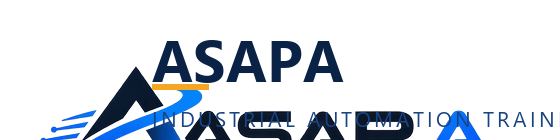
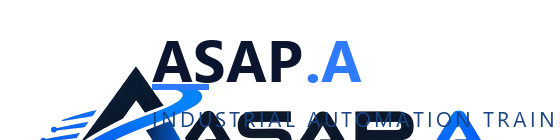
Rebrand to ASAP.A: navy/blue design system (design-tokens), ASAP.A lockup + UI re-skin

Changed region(s): [[0.5161, 0.2857, 0.6679, 0.6], [0.2732, 0.6, 0.3946, 0.6571]]

diff --git a/frontend/css/styles.css b/frontend/css/styles.css
@@ -1,18 +1,20 @@
 :root {
-  --bg: #0a1120;
-  --bg-2: #0f1830;
-  --panel: #14203a;
-  --panel-2: #1a2a4a;
-  --border: #233352;
-  --text: #e8ecf5;
-  --muted: #93a0bd;
-  --accent: #2f9cf0;
-  --accent-2: #2275c7;
-  --danger: #ff5c5c;
-  --warn: #ffc24b;
-  --good: #4be38a;
+  --bg: #08111f;
+  --bg-2: #0a1628;
+  --panel: #0f1e36;
+  --panel-2: #122542;
+  --border: #1f3556;
+  --text: #ffffff;
+  --muted: #9db2ce;
+  --locked: #6b7f99;
+  --accent: #1e88ff;
+  --accent-2: #3b9bff;
+  --cyan: #2fc4ff;
+  --danger: #ef4444;
+  --warn: #f59e0b;
+  --good: #22c55e;
   --radius: 12px;
-  --font: "Segoe UI", system-ui, -apple-system, sans-serif;
+  --font: "Inter", "Segoe UI", system-ui, -apple-system, sans-serif;
 }
 
 * { box-sizing: border-box; margin: 0; padding: 0; }
@@ -42,8 +44,8 @@ h3 { font-size: 15px; font-weight: 600; margin: 14px 0 8px; }
   transition: filter .15s, transform .05s;
 }
 .btn:active { transform: translateY(1px); }
-.btn-primary { background: var(--accent); color: #06162b; }
-.btn-primary:hover { filter: brightness(1.1); }
+.btn-primary { background: var(--accent); color: #fff; box-shadow: 0 0 14px rgba(30,136,255,.35); }
+.btn-primary:hover { background: var(--accent-2); filter: brightness(1.05); }
 .btn-ghost { background: transparent; color: var(--muted); border: 1px solid var(--border); }
 .btn-ghost:hover { color: var(--text); border-color: var(--muted); }
 .btn-block { width: 100%; margin-top: 8px; }
@@ -61,7 +63,7 @@ label { display: block; color: var(--muted); font-size: 13px; margin-top: 12px; 
 /* Auth */
 .auth-screen {
   min-height: 100vh; display: flex; align-items: center; justify-content: center;
-  background: radial-gradient(1000px 500px at 30% -10%, #12335c 0%, var(--bg) 60%);
+  background: radial-gradient(1000px 500px at 30% -10%, #0b3a86 0%, var(--bg) 60%);
 }
 .auth-card {
   width: 400px; background: var(--panel); border: 1px solid var(--border);
@@ -72,6 +74,7 @@ label { display: block; color: var(--muted); font-size: 13px; margin-top: 12px; 
   width: 44px; height: 44px; border-radius: 10px; object-fit: contain;
 }
 .brand-name { font-weight: 700; font-size: 17px; }
+.brand-name .brand-dot { color: var(--accent); }
 .brand-sub { font-size: 12px; color: var(--muted); }
 .tabs-mini { display: flex; gap: 6px; background: var(--bg-2); border-radius: 8px; padding: 4px; margin: 16px 0; }
 .tab-mini { flex: 1; background: none; border: none; color: var(--muted); padding: 8px; border-radius: 6px; cursor: pointer; font-weight: 600; }
@@ -91,7 +94,7 @@ label { display: block; color: var(--muted); font-size: 13px; margin-top: 12px; 
   cursor: pointer; font-weight: 600;
 }
 .nav-item:hover { color: var(--text); background: var(--panel); }
-.nav-item.active { background: var(--panel); color: var(--accent); }
+.nav-item.active { background: var(--accent); color: #fff; }
 .sidebar-footer { margin-top: auto; }
 .user-chip { font-size: 13px; color: var(--text); background: var(--panel); border-radius: 8px; padding: 10px 12px; }
 .user-chip .email { color: var(--muted); font-size: 12px; }
@@ -169,14 +172,14 @@ label { display: block; color: var(--muted); font-size: 13px; margin-top: 12px; 
 .panel-item .sub { color: var(--muted); font-size: 13px; margin-top: 2px; }
 
 /* Mentor chat */
-.mentor-ai-chip { font-size: 11px; font-weight: 600; color: var(--accent, #2f9cf0); background: rgba(47,156,240,0.08); border: 1px solid rgba(47,156,240,0.25); padding: 3px 10px; border-radius: 999px; vertical-align: middle; }
+.mentor-ai-chip { font-size: 11px; font-weight: 600; color: var(--accent, #1e88ff); background: rgba(30,136,255,0.08); border: 1px solid rgba(30,136,255,0.25); padding: 3px 10px; border-radius: 999px; vertical-align: middle; }
 .mentor-layout { display: grid; grid-template-columns: 1fr 300px; gap: 18px; margin-top: 14px; }
 .chat-window {
   height: 520px; overflow-y: auto; background: var(--panel); border: 1px solid var(--border);
   border-radius: var(--radius); padding: 16px; display: flex; flex-direction: column; gap: 10px;
 }
 .msg { max-width: 85%; padding: 10px 14px; border-radius: 12px; font-size: 14px; white-space: pre-wrap; }
-.msg.user { align-self: flex-end; background: #10396b; color: #dceeff; border: 1px solid #1c5494; }
+.msg.user { align-self: flex-end; background: var(--accent); color: #fff; border: 1px solid var(--accent-2); }
 .msg.mentor { align-self: flex-start; background: var(--bg-2); border: 1px solid var(--border); }
 .msg .tag { display: block; font-size: 10px; letter-spacing: .06em; color: var(--accent); margin-bottom: 4px; font-weight: 700; }
 .msg.safety { border-color: var(--danger); }
@@ -185,7 +188,7 @@ label { display: block; color: var(--muted); font-size: 13px; margin-top: 12px; 
 .msg.socratic .tag { color: var(--accent); }
 .level-picker { display: flex; gap: 6px; margin: 6px 0 4px; }
 .level-picker button { flex: 1; background: var(--bg-2); border: 1px solid var(--border); color: var(--muted); border-radius: 6px; padding: 6px 0; cursor: pointer; font-weight: 700; }
-.level-picker button.active { background: var(--accent); color: #06162b; border-color: var(--accent); }
+.level-picker button.active { background: var(--accent); color: #fff; border-color: var(--accent); }
 .chat-input-row { display: flex; gap: 8px; }
 .chat-input-row input { flex: 1; }
 

diff --git a/frontend/index.html b/frontend/index.html
@@ -3,7 +3,7 @@
 <head>
   <meta charset="UTF-8" />
   <meta name="viewport" content="width=device-width, initial-scale=1.0" />
-  <title>ASAPA — Industrial Automation Training Platform</title>
+  <title>ASAP.A — Industrial Automation Training Platform</title>
   <link rel="icon" type="image/x-icon" href="favicon.ico" />
   <link rel="stylesheet" href="css/styles.css" />
 </head>
@@ -12,9 +12,9 @@
   <div id="auth-screen" class="auth-screen hidden">
     <div class="auth-card">
       <div class="brand">
-        <img class="brand-mark" src="logo.png" alt="ASAPA" />
+        <img class="brand-mark" src="logo.png" alt="ASAP.A" />
         <div>
-          <div class="brand-name">ASAPA</div>
+          <div class="brand-name">ASAP<span class="brand-dot">.A</span></div>
           <div class="brand-sub">Industrial Automation Training Platform</div>
         </div>
       </div>
@@ -49,9 +49,9 @@
   <div id="app" class="app hidden">
     <aside class="sidebar">
       <div class="brand">
-        <img class="brand-mark" src="logo.png" alt="ASAPA" />
+        <img class="brand-mark" src="logo.png" alt="ASAP.A" />
         <div>
-          <div class="brand-name">ASAPA</div>
+          <div class="brand-name">ASAP<span class="brand-dot">.A</span></div>
           <div class="brand-sub">AI-Powered · Offline-First</div>
         </div>
       </div>

diff --git a/frontend/sw.js b/frontend/sw.js
@@ -1,7 +1,7 @@
-// ASAPA — Industrial Automation Training Platform — service worker
+// ASAP.A — Industrial Automation Training Platform — service worker
 // Caches the app shell so the UI loads with no network. API calls are never cached;
 // content for offline study comes from IndexedDB bundles instead.
-const CACHE = "academy-shell-v8";
+const CACHE = "academy-shell-v9";
 const SHELL = [
   "/",
   "/index.html",

diff --git a/frontend/js/offline.js b/frontend/js/offline.js
@@ -1,4 +1,4 @@
-// ASAPA — offline engine
+// ASAP.A — offline engine
 // IndexedDB bundle store + queued local changes + offline mentor + sync flush.
 (function (global) {
   "use strict";

diff --git a/frontend/js/app.js b/frontend/js/app.js
@@ -1,4 +1,4 @@
-// ASAPA — front-end client
+// ASAP.A — front-end client
 const API = "/api";
 
 const state = {

diff --git a/packaging/desktop/assets/make_icon.py b/packaging/desktop/assets/make_icon.py
@@ -6,7 +6,7 @@ gear to an IC chip. Emits:
 
     assets/app.ico                 multi-size Windows icon (16..256)
     assets/asapa_logo.png          512px square mark
-    assets/asapa_lockup.png        mark + "ASAPA" wordmark (docs / marketing)
+    assets/asapa_lockup.png        mark + "ASAP.A" wordmark (docs / marketing)
     frontend/logo.png              128px mark (UI brand block)
     frontend/favicon.ico           browser tab icon
 """
@@ -28,8 +28,9 @@ S = 512
 C = S // 2
 
 BLUE = (25, 68, 130, 255)      # deep industrial blue
-DARK = (10, 34, 70, 255)       # near-navy (glyph / wordmark)
-AMBER = (245, 166, 35, 255)    # signal amber
+DARK = (11, 21, 48, 255)       # brand navy (#0B1530 — glyph / wordmark)
+AMBER = (245, 166, 35, 255)    # signal amber (legacy monogram hub)
+ACCENT = (47, 123, 255, 255)   # ASAP.A blue (#2F7BFF — ".A", swoosh, bar)
 LIGHT = (146, 190, 240, 255)   # light blue circuit track
 CLEAR = (0, 0, 0, 0)
 
@@ -141,10 +142,11 @@ def make_lockup(mark: Image.Image | None = None) -> Image.Image:
     d = ImageDraw.Draw(img)
 
     word = _font(58, bold=True)
-    d.text((152, 58), "ASAPA", font=word, fill=DARK, anchor="lm")
+    d.text((152, 58), "ASAP", font=word, fill=DARK, anchor="lm")
+    d.text((152 + word.getlength("ASAP") + 2, 58), ".A", font=word, fill=ACCENT, anchor="lm")
 
     bar_y = 84
-    d.rectangle([152, bar_y, 208, bar_y + 5], fill=AMBER)
+    d.rectangle([152, bar_y, 208, bar_y + 5], fill=ACCENT)
 
     tagline = "INDUSTRIAL AUTOMATION TRAINING PLATFORM"
     f = _font(21, bold=False)

diff --git a/packaging/desktop/launcher.py b/packaging/desktop/launcher.py
@@ -1,4 +1,4 @@
-"""ASAPA - Industrial Automation Training Platform (Windows desktop launcher).
+"""ASAP.A - Industrial Automation Training Platform (Windows desktop launcher).
 
 Entry point for the PyInstaller bundle (see build-desktop.ps1). Starts the
 FastAPI server on loopback, serves the bundled frontend, and hosts the UI in a
@@ -64,7 +64,7 @@ def info(message: str) -> None:
 
 
 CONFIG_TEMPLATE = """\
-# ASAPA desktop AI mentor settings.
+# ASAP.A desktop AI mentor settings.
 # This app keeps working fully offline with the built-in Socratic engine.
 # To enable the live LLM mentor over the internet, fill in a provider + key:
 #   AI_PROVIDER=openrouter            # openai | openrouter | anthropic | gemini | ollama
@@ -232,7 +232,7 @@ def _main() -> int:
     import webview
 
     webview.create_window(
-        "ASAPA - Industrial Automation Training Platform",
+        "ASAP.A - Industrial Automation Training Platform",
         url,
         width=1280,
         height=840,

diff --git a/backend/app/mentor/engine.py b/backend/app/mentor/engine.py
@@ -348,7 +348,7 @@ class AIMentorEngine:
         )
 
 
-SYSTEM_PROMPT = """You are the AI mentor inside ASAPA, an industrial automation training platform (PLC, sensors, PID, P&ID, HMI/SCADA, safety, commissioning, fault-finding, mining & minerals).
+SYSTEM_PROMPT = """You are the AI mentor inside ASAP.A, an industrial automation training platform (PLC, sensors, PID, P&ID, HMI/SCADA, safety, commissioning, fault-finding, mining & minerals).
 
 You are a senior automation engineer teaching a working technician. Principles:
 - Socratic by default: when asked for a diagnosis, first ask ONE focused question that moves the learner forward, and never hand over the root cause in the same turn.

diff --git a/backend/app/config.py b/backend/app/config.py
@@ -6,7 +6,7 @@ from pydantic_settings import BaseSettings, SettingsConfigDict
 class Settings(BaseSettings):
     model_config = SettingsConfigDict(env_file=".env", env_file_encoding="utf-8", extra="ignore")
 
-    app_name: str = "ASAPA - Industrial Automation Training Platform"
+    app_name: str = "ASAP.A - Industrial Automation Training Platform"
     app_version: str = "1.0.0"
     api_prefix: str = "/api"
 

diff --git a/backend/app/main.py b/backend/app/main.py
@@ -90,7 +90,7 @@ PORTFOLIO_TEMPLATE = """<!DOCTYPE html>
 </header>
 <main>
   <div class="card">
-    <span class="badge">ASAPA Project Work Sample</span>
+    <span class="badge">ASAP.A Project Work Sample</span>
     <div class="owner">By @@OWNER@@</div>
     <pre>@@SUMMARY@@</pre>
     <div class="ref">Entry ref: @@REF@@ · Verified on @@ORIGIN@@</div>

diff --git a/backend/app/mentor/llm.py b/backend/app/mentor/llm.py
@@ -25,7 +25,7 @@ PROVIDER_DEFAULTS = {
     "gemini": ("https://generativelanguage.googleapis.com", "gemini-2.0-flash"),
 }
 
-OPENROUTER_TITLE = "ASAPA - Industrial Automation Training Platform"
+OPENROUTER_TITLE = "ASAP.A - Industrial Automation Training Platform"
 
 
 class LLMError(Exception):

diff --git a/README.md b/README.md
@@ -1,8 +1,8 @@
-# ASAPA — Industrial Automation Training Platform
+# ASAP.A — Industrial Automation Training Platform
 
-![ASAPA](packaging/desktop/assets/asapa_lockup.png)
+![ASAP.A](packaging/desktop/assets/asapa_lockup.png)
 
-*ASAPA (ASAP Automation) — formerly the AI-Powered Industrial Academy — is an*
+*ASAP.A (ASAP Automation) — formerly the AI-Powered Industrial Academy — is an*
 *offline-capable learning platform for industrial automation engineering.*
 *"Don't teach software buttons. Teach the complete industrial engineering lifecycle."*
 
@@ -275,14 +275,14 @@ and the recorded installer version. Rebuild the media any time the app or dated 
 
 ## Windows desktop app + installer
 
-For a native, browser-less experience the platform is also packaged as the **ASAPA Windows desktop
+For a native, browser-less experience the platform is also packaged as the **ASAP.A Windows desktop
 application** (`IndustrialAcademy.exe`): it starts the API on a random loopback port and hosts the
 UI in a WebView2 window (no console, no separate browser tab). A per-user **Inno Setup installer**
 wraps the whole bundle.
 
 The desktop build ships without the optional hardware-integration libraries, so the admin
 "Live integrations" view reports them as *disabled* and the app never binds the privileged Modbus
-port 502. The app icon and installer icon use the ASAPA mark (assets generated by
+port 502. The app icon and installer icon use the ASAP.A mark (assets generated by
 `packaging/desktop/assets/make_icon.py`). All user data (SQLite database, curriculum, offline
 bundles) is stored in `%LOCALAPPDATA%\IndustrialAcademy`, outside the install directory, and
 survives re-installs and uninstalls.
@@ -319,7 +319,7 @@ This produces:
 
 - `packaging/desktop/dist-desktop/IndustrialAcademy/` — the standalone app folder (run
   `IndustrialAcademy.exe` directly)
-- `packaging/desktop/dist-desktop/ASAPA-Setup-1.0.0.exe` (~23 MB, per-user installer → Start Menu +
+- `packaging/desktop/dist-desktop/ASAP.A-Setup-1.0.0.exe` (~24 MB, per-user installer → Start Menu +
   Desktop shortcuts, uninstaller included, no admin required)
 
 Options: `-SkipVenv` (reuse the `.build-venv`), `-SkipInstaller` (bundle only). `ISCC_PATH` can
